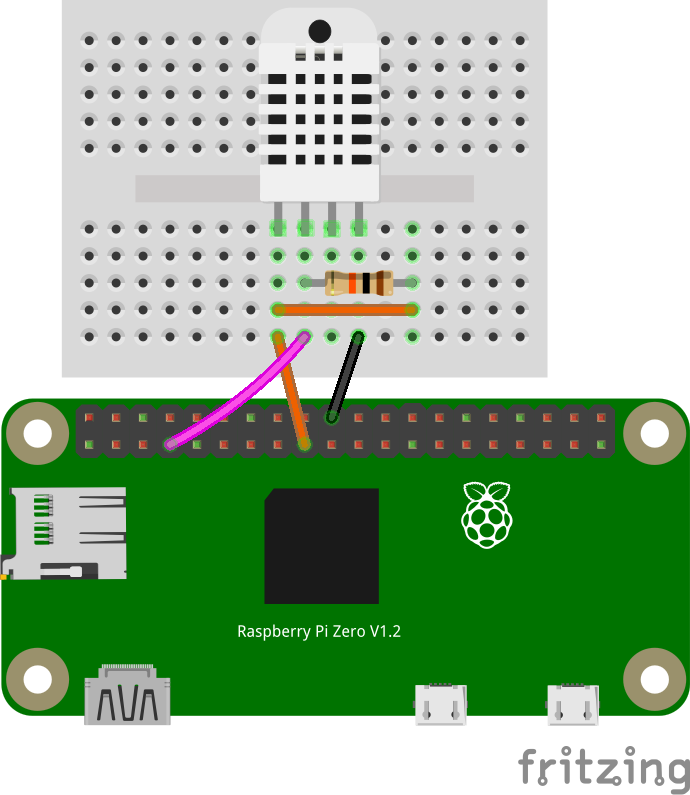
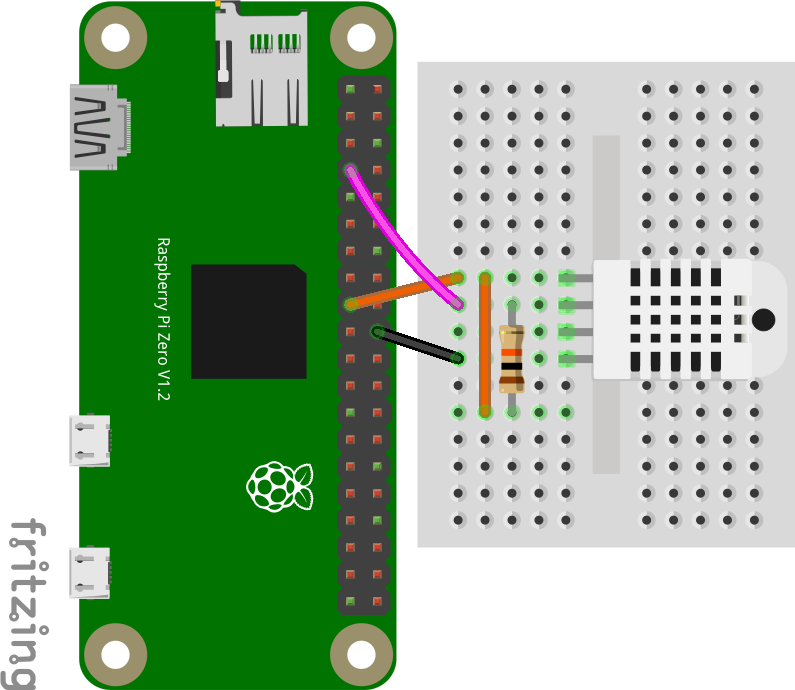
GH-35 Überarbeitung Steckplatinen-Layout & Beispiele

diff --git a/DHT22.tex b/DHT22.tex
@@ -1,21 +1,12 @@
 
-%\textbf{Anschluss:} 
-
 \begin{figure}[ht]
   \centering
-  \includegraphics[scale=1.0, angle=-90]{images/DHT22_Steckplatine.png}	
+  \includegraphics[scale=0.24]{images/DHT22_Steckplatine.png}	
+  \includegraphics[scale=0.25]{images/DHT22_Schaltplan.png}	
   %	\caption{}
   \label{DHT22_Steckplatine}
 \end{figure}
 
-%\textbf{Schaltplan:} 
-
-\begin{figure}[ht]
-	\centering
-	\includegraphics[scale=0.25]{images/DHT22_Schaltplan.png}	
-	%	\caption{}
-	\label{DHT22_Steckplatine}
-\end{figure}
 
 \ExerciseBox{
 Lies Temperatur und Feuchte aus [Beispiele]\\
@@ -25,27 +16,27 @@ Gib die Werte am TM1637 Display aus}
 \textbf{C:}
 
 \begin{console}
-git clone https://github.com/mstroh76/Sensors-WiringPi.git
-cd Sensors-WiringPi/DHT
-g++ -o DHT *.cpp -lwiringPi	
-sudo ./DHT 4
+	git clone https://github.com/mstroh76/Sensors-WiringPi.git
+	cd Sensors-WiringPi/DHT
+	g++ -o DHT *.cpp -lwiringPi	
+	sudo ./DHT 4
 \end{console}
 
 \textbf{C\#:}
 
 \begin{console}
-git clone https://github.com/chirndler/wiringpi.net.sensors.git
-cd wiringpi.net.sensors
-xbuild /p:Configuration=Release wiringpi.net.sensors.sln
-cd bin/Release/
-sudo mono wiringpi.net.sensors.sample.exe 1
+	git clone https://github.com/chirndler/wiringpi.net.sensors.git
+	cd wiringpi.net.sensors
+	xbuild /p:Configuration=Release wiringpi.net.sensors.sln
+	cd bin/Release/
+	sudo mono wiringpi.net.sensors.sample.exe 1
 \end{console}
 
 \textbf{Python:}
 % Projektverzeichnis?
 \begin{console}
-git clone https://github.com/jdupl/dhtxx-rpi-python3.git
-sudo cp dhtxx-rpi-python3/dhtxx.py /usr/local/lib/python3.5/dist-packages/
+	git clone https://github.com/jdupl/dhtxx-rpi-python3.git
+	sudo cp dhtxx-rpi-python3/dhtxx.py /usr/local/lib/python3.5/dist-packages/
 \end{console}
 
 \lstset{language=Python, caption=, 

diff --git a/TM1637Display.tex b/TM1637Display.tex
@@ -25,30 +25,30 @@ Gib die gemittelte aktuelle CPU Last in Prozent aus}
 \textbf{C:} 
 
 \begin{console}
-git clone https://github.com/mstroh76/TM1637Display
-cd TM1637Display
-geany project.geany & 
+	git clone https://github.com/mstroh76/TM1637Display
+	cd TM1637Display
+	geany project.geany & 
 \end{console}
 
 \textbf{C\#:}
 
 \begin{console}
-git clone https://github.com/chirndler/wiringpi.net.sensors.git
-cd wiringpi.net.sensors
-xbuild /p:Configuration=Release wiringpi.net.sensors.sln
-cd bin/Release/
-sudo mono wiringpi.net.sensors.sample.exe 3
+	git clone https://github.com/chirndler/wiringpi.net.sensors.git
+	cd wiringpi.net.sensors
+	xbuild /p:Configuration=Release wiringpi.net.sensors.sln
+	cd bin/Release/
+	sudo mono wiringpi.net.sensors.sample.exe 3
 \end{console}
 
 \textbf{Python:}
 %git clone https://github.com/depklyon/raspberrypi-python-tm1637.git
 % orig link zu: https://goo.gl/KU1Jm2
 \begin{console}
-sudo apt-get install python3-pip
-sudo pip3 install wiringpi
-git clone https://goo.gl/KU1Jm2
-cd raspberrypi-python-tm1637
-sudo python3 setup.py install
+	sudo apt-get install python3-pip
+	sudo pip3 install wiringpi
+	git clone https://goo.gl/KU1Jm2
+	cd raspberrypi-python-tm1637
+	sudo python3 setup.py install
 \end{console}
 
 \lstset{language=Python, caption=, 

diff --git a/HC-SR04.tex b/HC-SR04.tex
@@ -37,11 +37,11 @@ Verwende die korrigierte Schallgeschwindingkeit bei aktueller Lufttemperatur vom
 \textbf{C\#:}
 
 \begin{console}
-git clone https://github.com/chirndler/wiringpi.net.sensors.git
-cd wiringpi.net.sensors
-xbuild /p:Configuration=Release wiringpi.net.sensors.sln
-cd bin/Release/
-sudo mono wiringpi.net.sensors.sample.exe 2
+	git clone https://github.com/chirndler/wiringpi.net.sensors.git
+	cd wiringpi.net.sensors
+	xbuild /p:Configuration=Release wiringpi.net.sensors.sln
+	cd bin/Release/
+	sudo mono wiringpi.net.sensors.sample.exe 2
 \end{console}
 
 \textbf{Python:}
